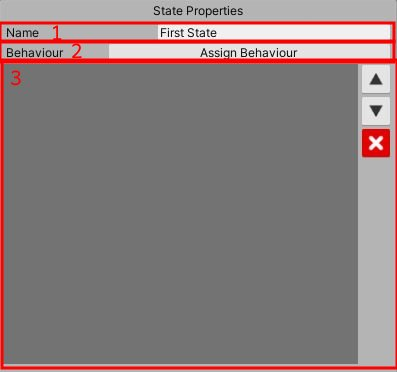
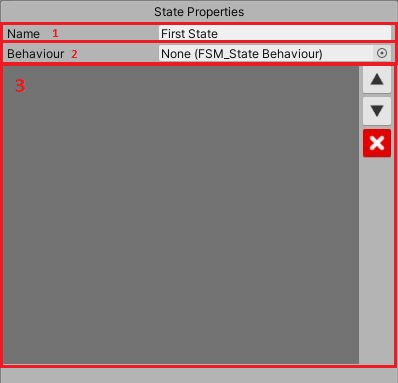
Doc Update

Changed region(s): [[0.0, 0.0, 1.0, 1.0], [0.0, 0.0, 0.0302, 0.0296]]

diff --git a/Assets/GRD_FSM/Scripts/FSM_Manager.cs b/Assets/GRD_FSM/Scripts/FSM_Manager.cs
@@ -519,5 +519,14 @@ namespace GRD.FSM
             }
         }
         #endregion
+
+#if UNITY_EDITOR
+        private void Reset()
+        {
+            _states = new List<FSM_State>();
+            _parameters = new List<FSM_Parameter>();
+            _anyStateTransitions = new FSM_Transition[0];
+        }
+#endif
     }
 }

diff --git a/docs/Help-Info.md b/docs/Help-Info.md
@@ -6,36 +6,3 @@ Every FSM Manager contains an **Any State** block. This block is used to create 
 
 ## Transition Order
 In the State Properties area, the order of the transitions in the list matters. Transitions are verified in the order they are in the list, so transitions above have them priority. If two transitions have their conditions satisfied at the same time, the transition higher up in the list is executed.
-
-## Changing a State Behaviour Class Name
-If you change the name of a State Behaviour class, Unity will lose its reference in serialized objects, breaking all FSM Manager that contain this behaviour. To change the class name avoiding this problem, you can use the MovedFrom attribute. Here is an example showing how to do this:
-
-Before:
-```
-using GRD.FSM;
-
-namespace YourNamespace
-{
-	public class OldBehaviourClassName : FSM_StateBehaviour
-	{
-		// Behaviour code...
-	}
-}
-```
-After:
-```
-using GRD.FSM;
-using UnityEngine.Scripting.APIUpdating;
-
-namespace YourNamespace
-{
-	[MovedFrom(true, sourceAssembly: "Assembly-CSharp", sourceNamespace:"YourNamespace", sourceClassName: "OldBehaviourClassName")]
-	public class NewBehaviourClassName : FSM_StateBehaviour
-	{
-		// Behaviour code...
-	}
-}
-```
-
-After the code is compiled by Unity, all references are updated and you can remove the MovedFrom attribute.
-See more about [MovedFromAttribute](https://github.com/Unity-Technologies/UnityCsReference/blob/master/Runtime/Export/Scripting/APIUpdating/UpdatedFromAttribute.cs).

diff --git a/docs/Creating-State-Behaviour.md b/docs/Creating-State-Behaviour.md
@@ -4,20 +4,14 @@ In State Behaviours we code the behaviour assumed by the machine when it is in a
 ```
 using GRD.FSM
 
-[FSM_Behaviour("Player/Idle)]
+[CreateAssetMenu(fileName = "Player - Idle Behaviour", menuName = "FSM Behaviours/Player/Idle", order = 1)]
 public class Player_IdleState : FSM_StateBehaviour
 {
 	// Behaviour code here
 }
 ```
 
-You can use the `FSM_Behaviour` attribute to define how the behaviour will be shown in behaviour selection. Otherwise, the behaviour will be shown with its class name.
-
-![Behaviour Selection](images/BehaviourSelection.png)
-
-After assigning a behaviour to a state, the class name is shown with a button to remove it.
-
-![Assigned behaviour](images/BehaviourSelected.JPG)
+The FSM_StateBehaviour class inherits from ScriptableObject, so you can use CreateAssetMenu attribute to create the asset on editor. After that, just assign the behavior object to the desired state.
 
 ## Coding the Behaviour
 The FSM_StateBehaviour class implements a set of functions that are called by FSM_Manager at specific moments. You can override them to implement your logic and control the machine.
